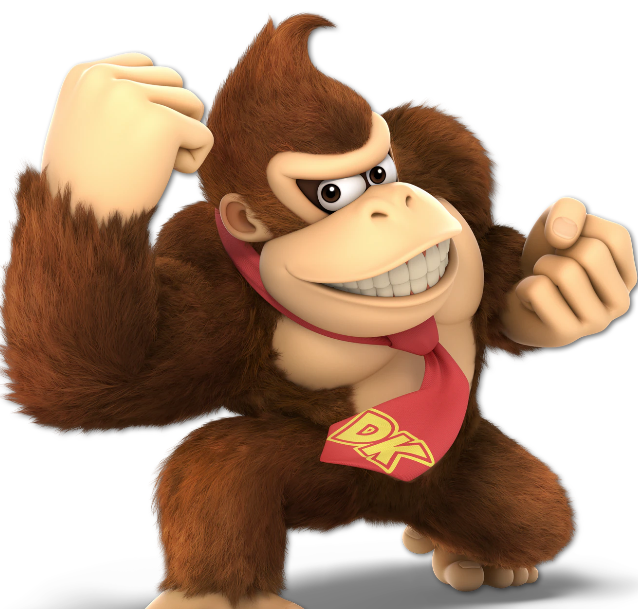
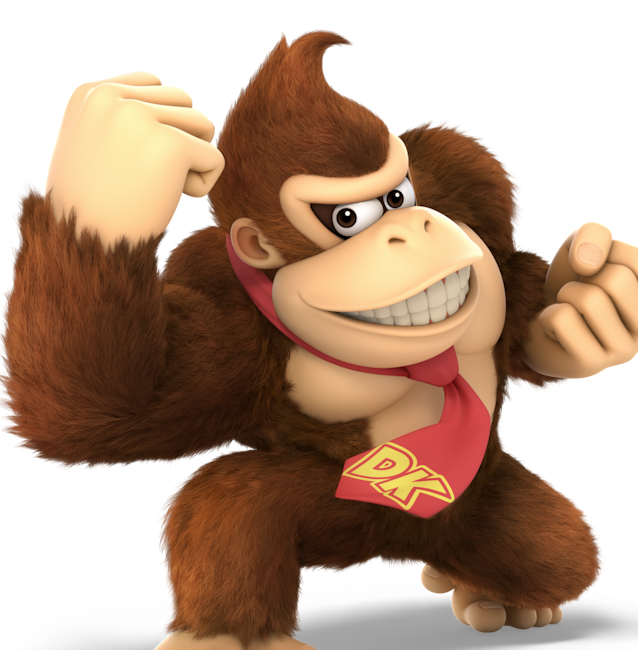
Added top bar to template2, character image can now go below this part of template

Changed region(s): [[0.0, 0.0, 1.0, 1.0], [0.1489, 0.624, 0.1787, 0.6552]]

diff --git a/app.py b/app.py
@@ -60,12 +60,13 @@ def gen(p1,p2,round,msg2,char1,char2):
 
     char1 = Image.open('chars/' + char1 + '.png')
     char2 = Image.open('chars/' + char2 + '.png')
-    image.paste(char1, (0,111),mask=char1)
-    image.paste(char2, (639,111),mask=char2)
-    draw.text((14+((608-w1)/2),16+dif1),p1,fill="white",font=f1,stroke_width=4,stroke_fill="black")
-    draw.text((659+((608-w2)/2),16+dif2),p2,fill="white",font=f2,stroke_width=4,stroke_fill="black")
+    image.paste(char1, (0,0),mask=char1)
+    image.paste(char2, (639,0),mask=char2)
+    
     overlay = Image.open('template2.png')
     image.paste(overlay, (0,0), mask=overlay)
+    draw.text((14+((608-w1)/2),16+dif1),p1,fill="white",font=f1,stroke_width=4,stroke_fill="black")
+    draw.text((659+((608-w2)/2),16+dif2),p2,fill="white",font=f2,stroke_width=4,stroke_fill="black")
     draw.text((14+((608-w3)/2),629+dif3),round,fill="white",font=f3,stroke_width=4,stroke_fill="black")
     draw.text((659+((608-w4)/2),629+dif4),msg2,fill="white",font=f4,stroke_width=4,stroke_fill="black")
     image.save('static/' + str(1) + '.png')
